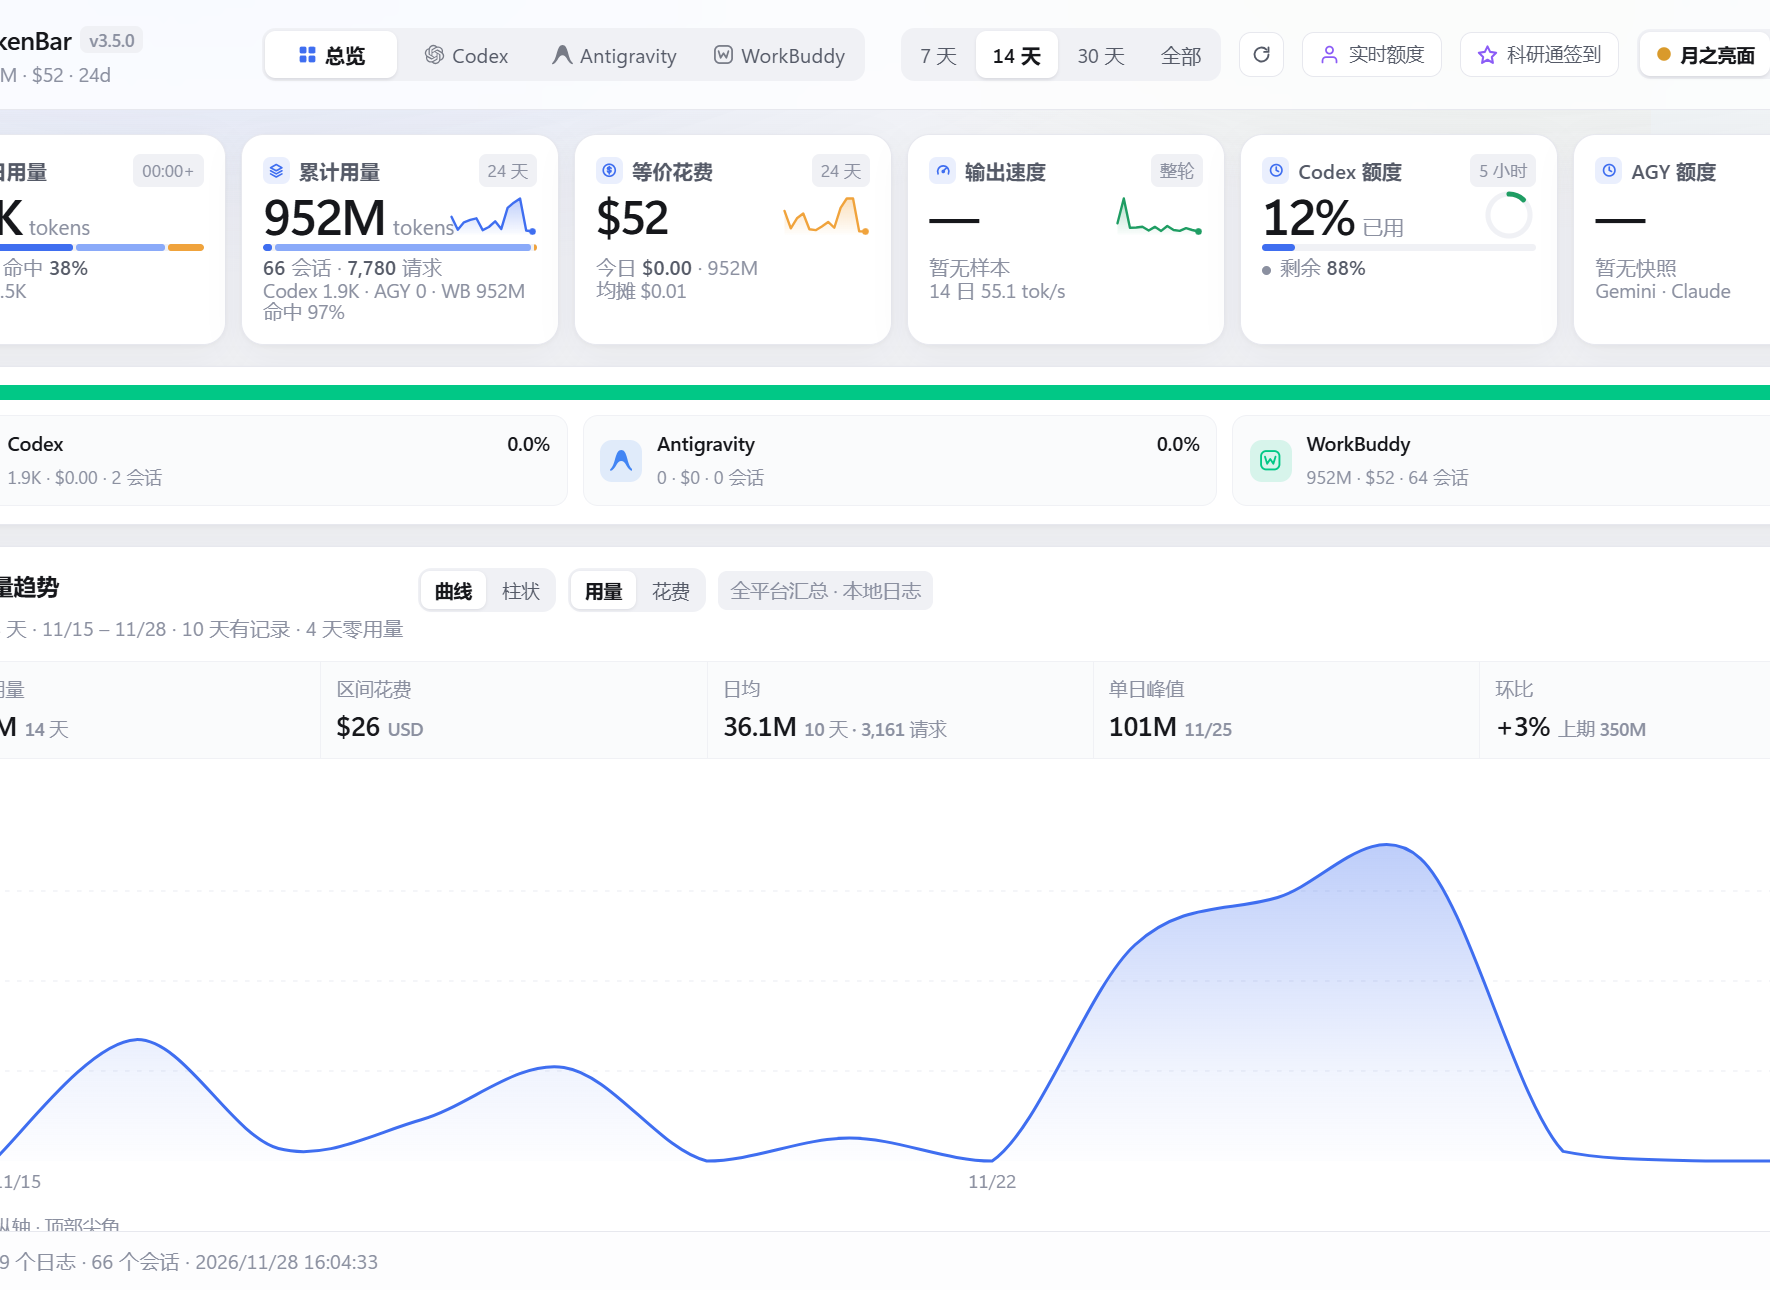
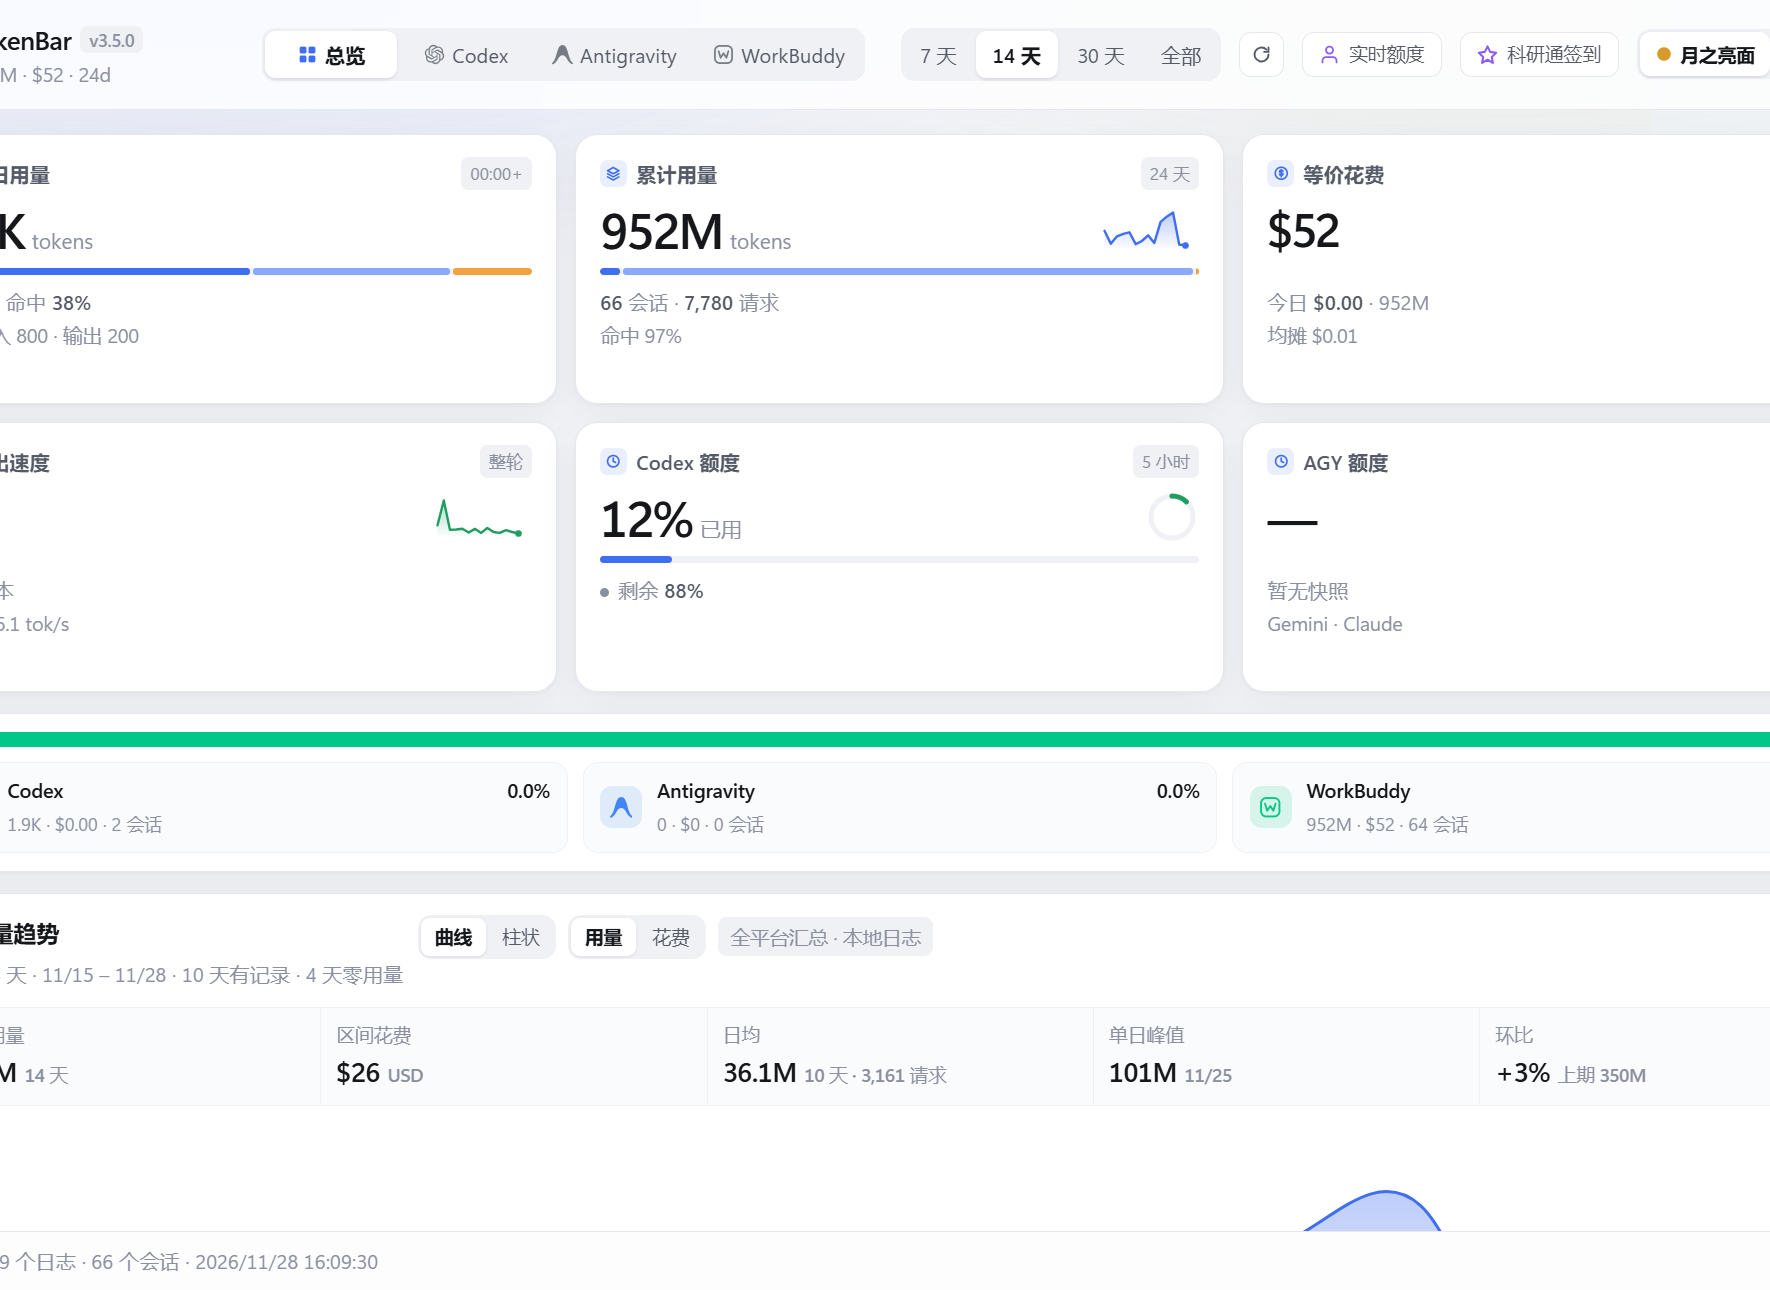
style(ui): use spacious 3x2 stat grid on desktop to eliminate card crowding

diff --git a/desktop/dashboard.html b/desktop/dashboard.html
@@ -485,9 +485,13 @@
 
   .stat-row {
     display: grid;
-    /* Codex 5 张卡、WorkBuddy 6 张（多一张速度卡），固定 6 列保证标题不换行 */
-    grid-template-columns: repeat(6, minmax(0, 1fr));
-    gap: 10px;
+    /* 默认 3 列×2 行，留足呼吸空间；超宽屏再铺成 6 列 */
+    grid-template-columns: repeat(3, minmax(0, 1fr));
+    gap: 12px;
+  }
+
+  @media (min-width: 1560px) {
+    .stat-row { grid-template-columns: repeat(6, minmax(0, 1fr)); }
   }
 
   .stat {
@@ -495,9 +499,10 @@
     border: 1px solid var(--line);
     border-radius: var(--radius);
     box-shadow: var(--shadow);
-    padding: 13px 14px;
+    padding: 15px 16px;
     display: flex;
     flex-direction: column;
+    gap: 7px;
     transition: transform .18s ease, box-shadow .18s ease, border-color .18s ease;
   }
   .stat:hover {
@@ -1125,7 +1130,7 @@
   /* ---------------- V3.5 视觉增强：Sparkline / 多Agent条 / Donut / 热力图 / 搜索 ---------------- */
 
   .stat-spark {
-    width: 60px;
+    width: 72px;
     height: 28px;
     flex: none;
     overflow: visible;
@@ -2790,33 +2795,15 @@
   }
 
   function overviewCards() {
-    const detail = state.detail;
-    const sb = (detail && detail.sourceBreakdown) || {};
     const quota = (state.status && state.status.quota) || null;
     const codexWin = (quota && (quota.session || quota.weekly)) || null;
     const codexLive = quota && quota.source === "api" ? " · 实时" : "";
     const agyQuota = state.status && state.status.antigravityQuota;
     const agyQuotaErr = state.status && state.status.antigravityQuotaError;
 
-    const todayCardObj = todayCard();
-    const todayParts = [
-      sb.codex && sb.codex.todayTokens ? "Codex " + fmtTokens(sb.codex.todayTokens) : "",
-      sb.antigravity && sb.antigravity.todayTokens ? "AGY " + fmtTokens(sb.antigravity.todayTokens) : "",
-      sb.workbuddy && sb.workbuddy.todayTokens ? "WB " + fmtTokens(sb.workbuddy.todayTokens) : ""
-    ].filter(Boolean);
-    if (todayParts.length) todayCardObj.hints = [todayParts.join(" · ")];
-
-    const totalCardObj = totalCard();
-    const totalParts = [
-      sb.codex ? "Codex " + fmtTokens(sb.codex.totalTokens) : "",
-      sb.antigravity ? "AGY " + fmtTokens(sb.antigravity.totalTokens) : "",
-      sb.workbuddy ? "WB " + fmtTokens(sb.workbuddy.totalTokens) : ""
-    ].filter(Boolean);
-    if (totalParts.length) totalCardObj.hints = [totalParts.join(" · "), totalCardObj.hints && totalCardObj.hints[0]].filter(Boolean);
-
     return [
-      todayCardObj,
-      totalCardObj,
+      todayCard(),
+      totalCard(),
       costCard(),
       speedCard(),
       quotaCard("Codex 额度", (quota && quota.session ? "5h" : "7d") + codexLive, codexWin),

diff --git a/desktop/ui/render.js b/desktop/ui/render.js
@@ -715,33 +715,15 @@
   }
 
   function overviewCards() {
-    const detail = state.detail;
-    const sb = (detail && detail.sourceBreakdown) || {};
     const quota = (state.status && state.status.quota) || null;
     const codexWin = (quota && (quota.session || quota.weekly)) || null;
     const codexLive = quota && quota.source === "api" ? " · 实时" : "";
     const agyQuota = state.status && state.status.antigravityQuota;
     const agyQuotaErr = state.status && state.status.antigravityQuotaError;
 
-    const todayCardObj = todayCard();
-    const todayParts = [
-      sb.codex && sb.codex.todayTokens ? "Codex " + fmtTokens(sb.codex.todayTokens) : "",
-      sb.antigravity && sb.antigravity.todayTokens ? "AGY " + fmtTokens(sb.antigravity.todayTokens) : "",
-      sb.workbuddy && sb.workbuddy.todayTokens ? "WB " + fmtTokens(sb.workbuddy.todayTokens) : ""
-    ].filter(Boolean);
-    if (todayParts.length) todayCardObj.hints = [todayParts.join(" · ")];
-
-    const totalCardObj = totalCard();
-    const totalParts = [
-      sb.codex ? "Codex " + fmtTokens(sb.codex.totalTokens) : "",
-      sb.antigravity ? "AGY " + fmtTokens(sb.antigravity.totalTokens) : "",
-      sb.workbuddy ? "WB " + fmtTokens(sb.workbuddy.totalTokens) : ""
-    ].filter(Boolean);
-    if (totalParts.length) totalCardObj.hints = [totalParts.join(" · "), totalCardObj.hints && totalCardObj.hints[0]].filter(Boolean);
-
     return [
-      todayCardObj,
-      totalCardObj,
+      todayCard(),
+      totalCard(),
       costCard(),
       speedCard(),
       quotaCard("Codex 额度", (quota && quota.session ? "5h" : "7d") + codexLive, codexWin),

diff --git a/desktop/ui/layout.css b/desktop/ui/layout.css
@@ -395,9 +395,13 @@
 
   .stat-row {
     display: grid;
-    /* Codex 5 张卡、WorkBuddy 6 张（多一张速度卡），固定 6 列保证标题不换行 */
-    grid-template-columns: repeat(6, minmax(0, 1fr));
-    gap: 10px;
+    /* 默认 3 列×2 行，留足呼吸空间；超宽屏再铺成 6 列 */
+    grid-template-columns: repeat(3, minmax(0, 1fr));
+    gap: 12px;
+  }
+
+  @media (min-width: 1560px) {
+    .stat-row { grid-template-columns: repeat(6, minmax(0, 1fr)); }
   }
 
   .stat {
@@ -405,9 +409,10 @@
     border: 1px solid var(--line);
     border-radius: var(--radius);
     box-shadow: var(--shadow);
-    padding: 13px 14px;
+    padding: 15px 16px;
     display: flex;
     flex-direction: column;
+    gap: 7px;
     transition: transform .18s ease, box-shadow .18s ease, border-color .18s ease;
   }
   .stat:hover {
@@ -1035,7 +1040,7 @@
   /* ---------------- V3.5 视觉增强：Sparkline / 多Agent条 / Donut / 热力图 / 搜索 ---------------- */
 
   .stat-spark {
-    width: 60px;
+    width: 72px;
     height: 28px;
     flex: none;
     overflow: visible;
